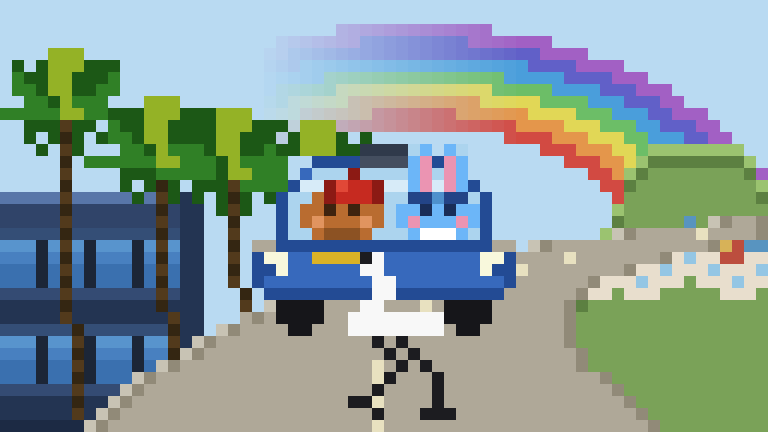
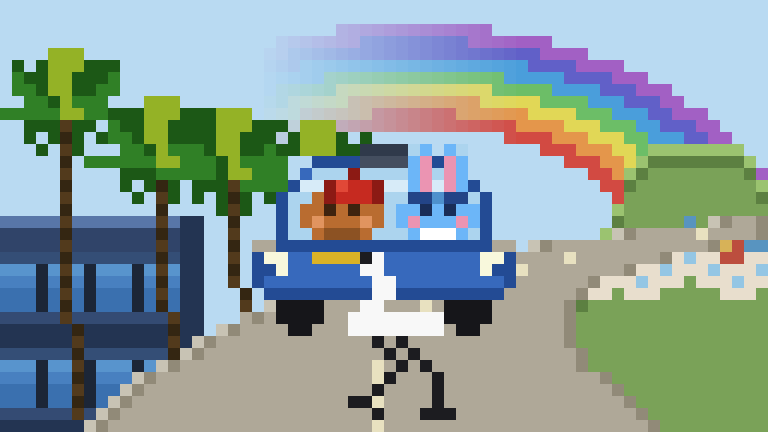
rainbow: WeWork楼下移2格

Changed region(s): [[0.0, 0.4213, 0.2812, 0.9931]]

diff --git a/pixel_rainbow.py b/pixel_rainbow.py
@@ -88,13 +88,13 @@ for _bi, _rc in enumerate(RB_RAW):
                 sp(_x, _y, _rb)
 
 # ── WeWork building (left x=0~16) ──
-fl(20, 35, 0, 16, WW_WALL)  # 墙体保持 x=0~16
+fl(22, 35, 0, 16, WW_WALL)  # 墙体保持 x=0~16
 # 楼顶：深蓝 + 顶部反光线
-fl(16, 19, 0, 16, WW_TOP)
-wrow(16, 0, 16, (88, 118, 168))   # 顶部亮反光
-wrow(19, 0, 16, (55, 78, 118))    # 楼顶底边暗线
+fl(18, 21, 0, 16, WW_TOP)
+wrow(18, 0, 16, (88, 118, 168))   # 顶部亮反光
+wrow(21, 0, 16, (55, 78, 118))    # 楼顶底边暗线
 # 楼层（x=0~16，全宽）
-for wy in range(20, 36, 8):
+for wy in range(22, 36, 8):
     wrow(wy-1, 0, 15, (52, 78, 118))   # 楼层间暗腰线
     fl(wy,   wy+3, 0, 15, WW_WIN)
     wrow(wy, 0, 15, WW_WIN_L)
@@ -104,11 +104,11 @@ for wy in range(20, 36, 8):
     if wy+7 <= 35: wrow(wy+7, 0, 15, (28, 42, 68))
 # 竖向分隔线（x=4,8,12）
 for vx in range(3, 16, 4):
-    for wy in range(20, 36, 8):
+    for wy in range(22, 36, 8):
         wcol(vx, wy, min(wy+3, 35), WW_WALL)
 # Right edge shadow
-wcol(15, 16, 35, WW_EDGE)
-wcol(16, 16, 35, WW_EDGE)
+wcol(15, 18, 35, WW_EDGE)
+wcol(16, 18, 35, WW_EDGE)
 
 # ── SF hillside (right x=48~63, y=8~30) ──
 HILL    = (122, 162,  88)
